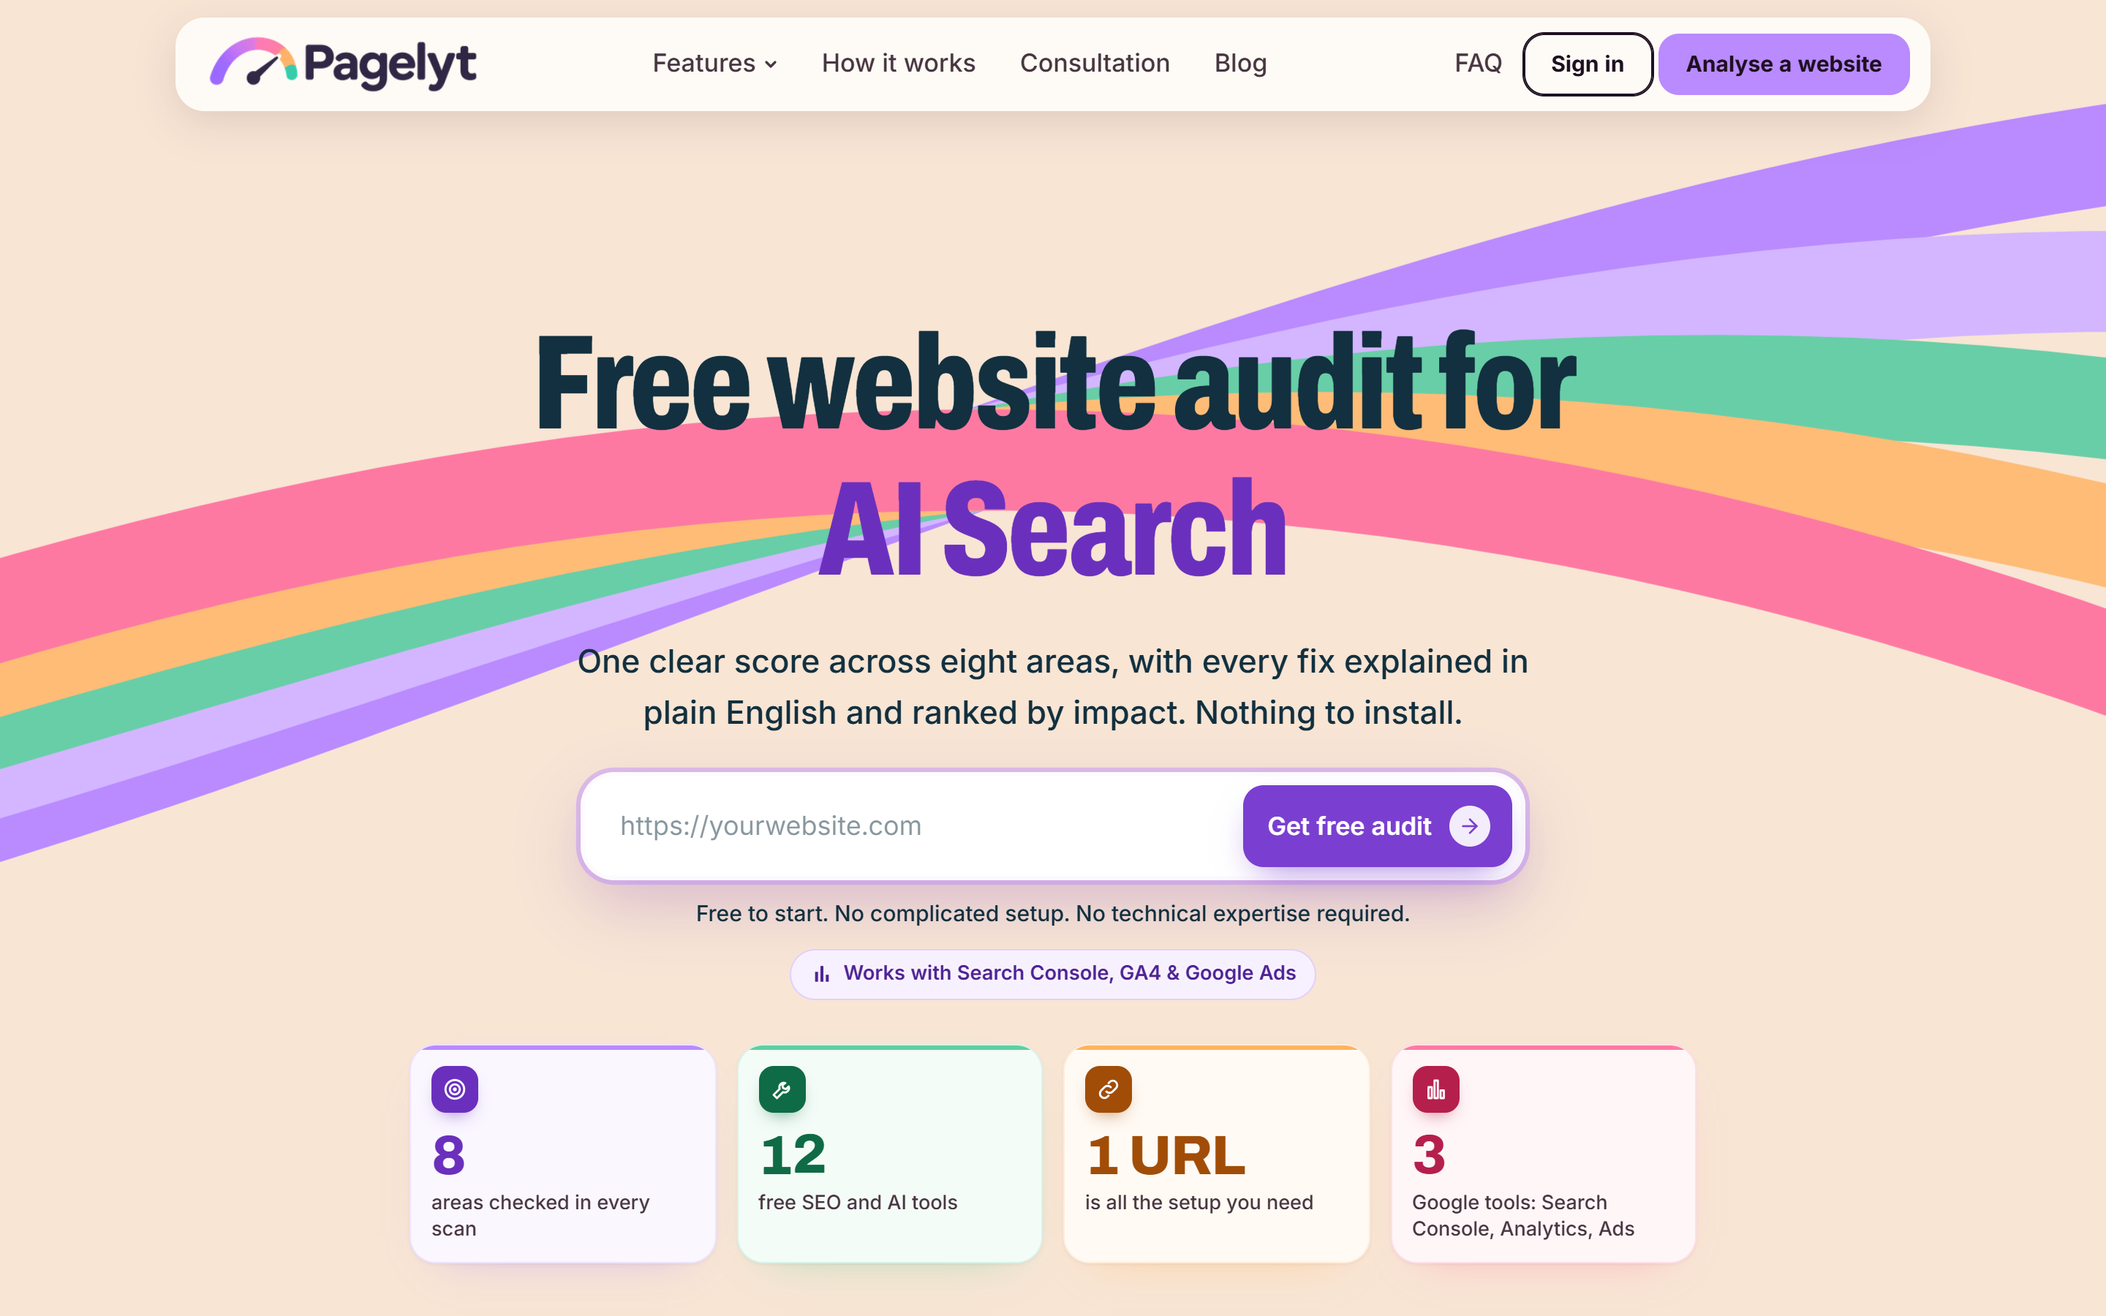
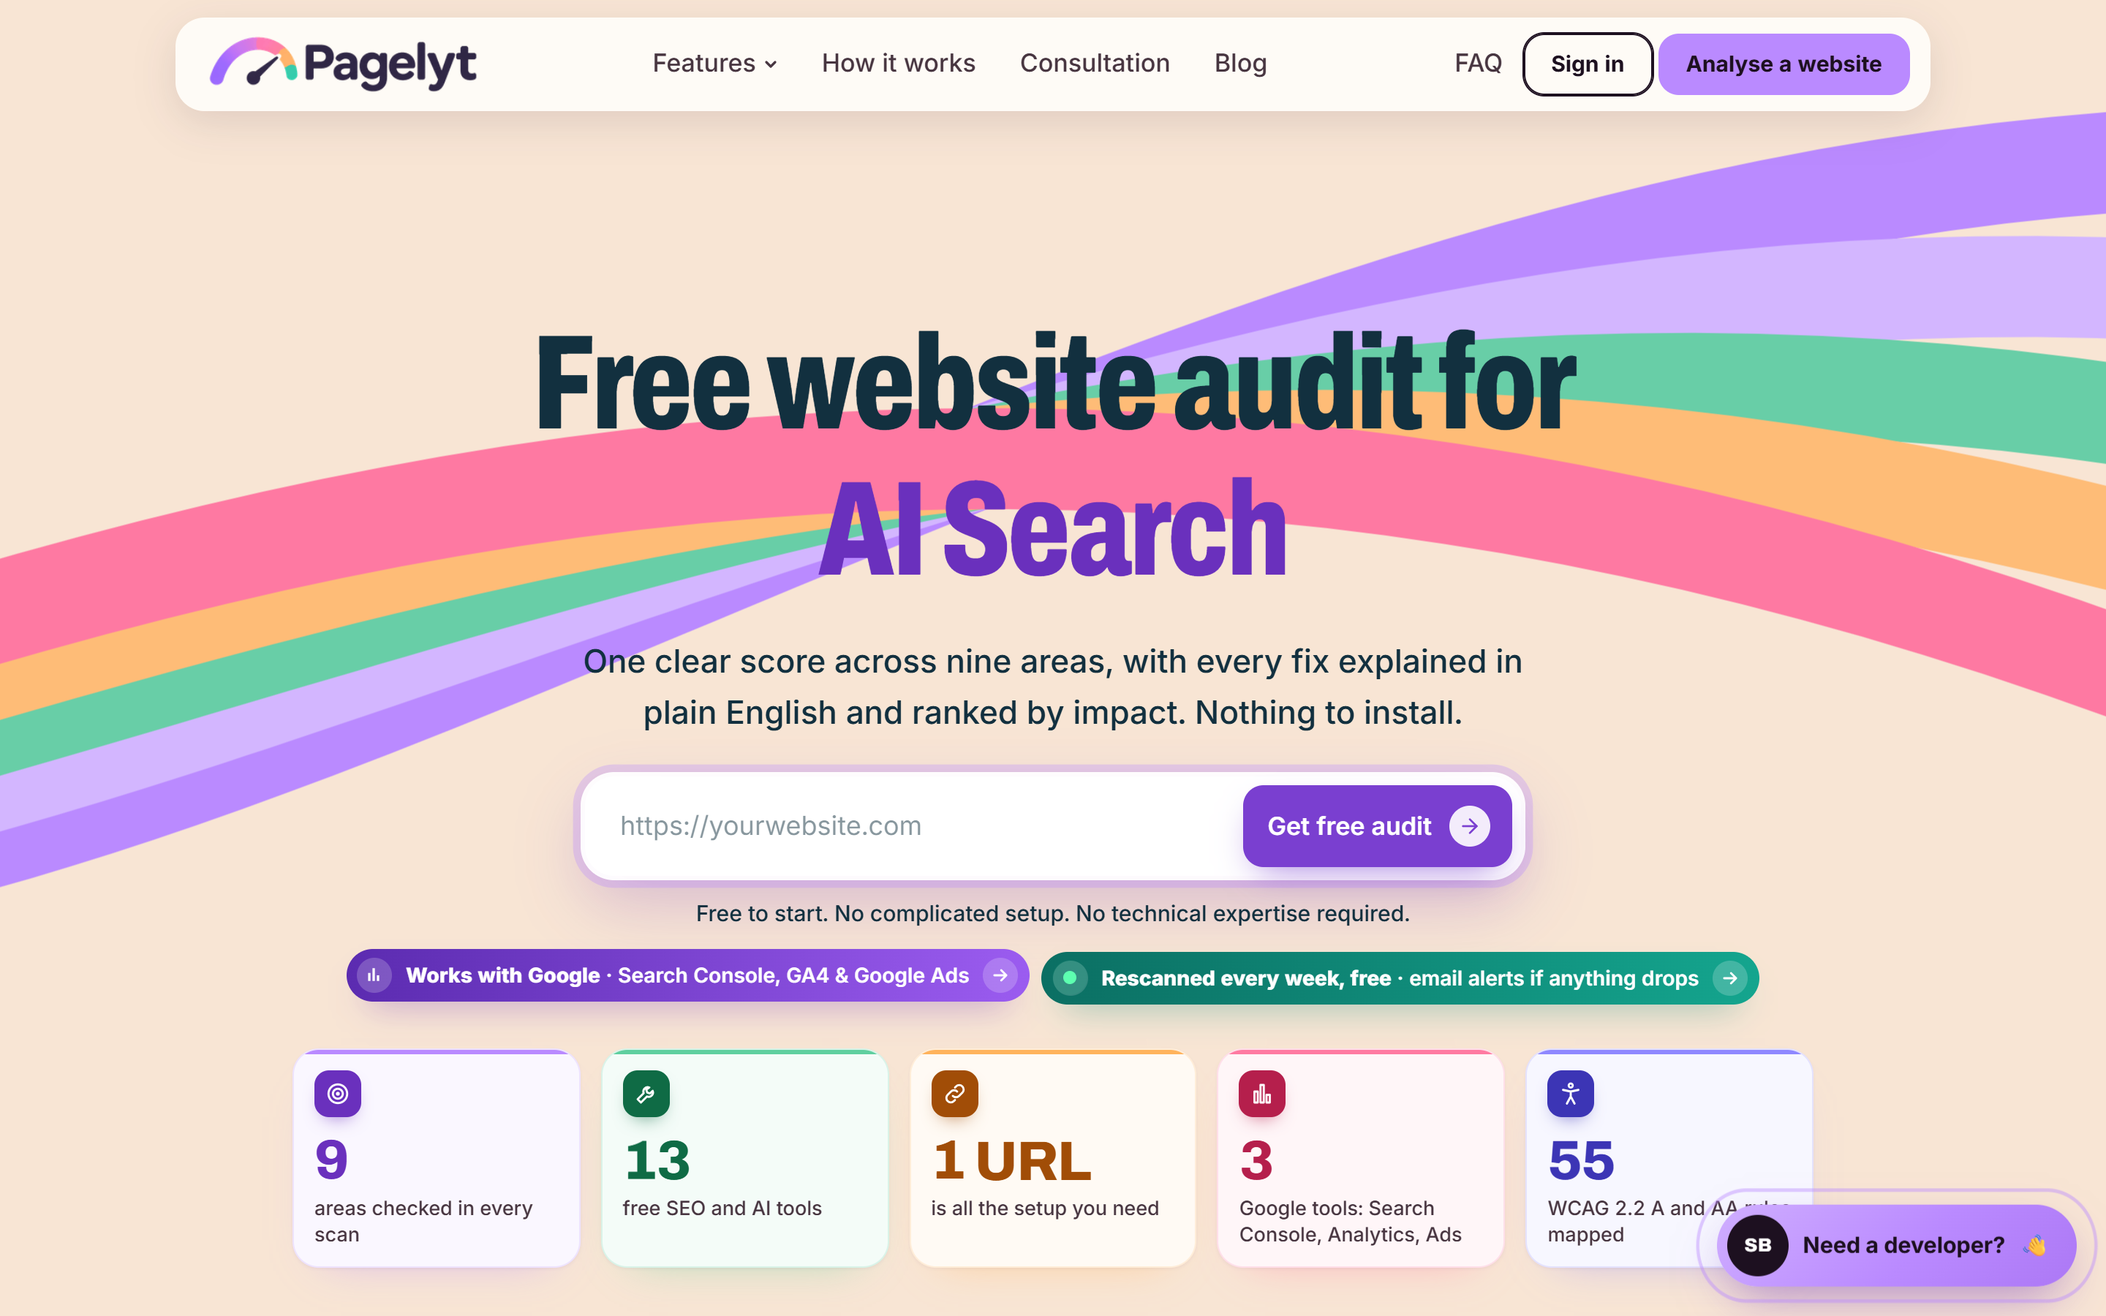
Memory bloating issue fix

diff --git a/web/lib/scan/crawl.ts b/web/lib/scan/crawl.ts
@@ -35,8 +35,17 @@ export function sitemapLocs(xml: string, host: string): string[] {
   return out;
 }
 
+/** Empties every inline script except JSON-LD. Framework payloads (e.g. Next.js RSC data) can be half of a page's
+    HTML and nothing in the scan reads them; parsing them pushed the crawl past the Worker's memory limit. */
+export function lighten(html: string): string {
+  return html.replace(/(<script\b(?![^>]*ld\+json)[^>]*>)[\s\S]*?(<\/script\s*>)/gi, "$1$2");
+}
+
 export function internalLinks(html: string, base: string, host: string): string[] {
-  const $ = cheerio.load(html);
+  return linksIn(cheerio.load(lighten(html)), base, host);
+}
+
+function linksIn($: cheerio.CheerioAPI, base: string, host: string): string[] {
   const seen = new Set<string>();
   $("a[href]").each((_, el) => {
     const href = ($(el).attr("href") || "").trim();
@@ -72,7 +81,9 @@ export function crawlQueue(home: string, host: string, sitemap: string[], homeLi
 const words = (s: string) => (s.trim() ? s.trim().split(/\s+/).length : 0);
 
 export function inspect(url: string, status: number, html: string, host: string): { page: CrawlPage; links: string[]; images: string[] } {
-  const $ = cheerio.load(html.slice(0, 400_000));
+  // One parse per page: links come from the same tree (anchors are untouched by the strip below).
+  const $ = cheerio.load(lighten(html).slice(0, 600_000));
+  const links = status < 400 ? linksIn($, url, host) : [];
   const images = status < 400 ? imagesIn($, url) : []; // before <noscript> is stripped (lazy-load fallbacks live there)
   const robots = ($('meta[name="robots"]').attr("content") || "").toLowerCase();
   const ld = pageSchemaProblems($); // before scripts are stripped
@@ -100,7 +111,7 @@ export function inspect(url: string, status: number, html: string, host: string)
       ...(alts.length ? { alts: alts.slice(0, 20) } : {}),
       ...(ld.length ? { ld } : {}),
     },
-    links: status < 400 ? internalLinks(html, url, host) : [],
+    links,
     images,
   };
 }

diff --git a/assets/peerlist/launch-images.html b/assets/peerlist/launch-images.html
@@ -94,7 +94,7 @@
     <h1>One scan.<br>Every issue, <em>ranked.</em></h1>
     <p class="lead">Paste a URL. Get one clear score and know exactly where to start.</p>
     <ul class="pts">
-      <li><i style="background:#ba8aff">8</i>areas scored in every scan</li>
+      <li><i style="background:#ba8aff">9</i>areas scored in every scan</li>
       <li><i style="background:#68cea7">✓</i>Ordered by importance, with points per fix</li>
       <li><i style="background:#febc77">⚡</i>Results in under a minute, nothing to install</li>
     </ul>
@@ -153,7 +153,7 @@
   <div class="text">
     <div class="brand"><svg><use href="#logo"/></svg><b>Pagelyt</b></div>
     <span class="kicker">Free tools</span>
-    <h1>12 free tools.<br><em>No card needed.</em></h1>
+    <h1>13 free tools.<br><em>No card needed.</em></h1>
     <p class="lead">Checkers and generators for search engines, AI assistants and security. Each one runs in seconds.</p>
     <ul class="pts">
       <li><i style="background:#ba8aff">✓</i>AI bot checker and llms.txt generator</li>

diff --git a/assets/medium/pagelyt-founder-story.md b/assets/medium/pagelyt-founder-story.md
@@ -1,0 +1,210 @@
+# Medium article: founder story (Sudharma)
+
+Posted from: **Sudharma's personal Medium account** (founder voice, first person).
+Images: `assets/medium/images/`, numbered in the order they appear.
+
+## Before you publish (Medium story settings)
+
+- **SEO title** (Story settings → SEO settings, max 60 chars):
+  `Free Website Audit Tool: Why I Built Pagelyt`
+- **SEO description** (max 156 chars):
+  `I built Pagelyt, a free website audit that ranks every SEO, speed, AI search and security issue by impact and explains each fix in plain English.`
+- **Tags** (Medium allows 5): `SEO`, `Website Audit`, `AI Search`, `Startup`, `Web Development`
+- **Story preview image:** `01-cover.png`
+- **Canonical link:** leave empty. This is an original post, not a copy of a pagelyt.dev blog post.
+- **Publication:** submit to a publication if accepted somewhere (e.g. a startup or web dev publication). It gets far more reach than a personal feed.
+- **Links:** every pagelyt.dev link already carries `utm_source=medium&utm_medium=article&utm_campaign=founder-story`.
+
+---
+
+## Title
+
+**I Got Tired of Website Audits That Hand You 200 Warnings. So I Built Pagelyt.**
+
+## Subtitle
+
+A free website audit that ranks every issue by impact, explains the fix in plain English, and checks whether ChatGPT can actually read your site.
+
+---
+
+![Pagelyt homepage: Find what's holding your site back. And how to fix it.](images/01-cover.png)
+*Pagelyt: a free website audit for SEO, speed, AI search and security.*
+
+The first time I ran a proper website audit on a site I cared about, I got 200 warnings back.
+
+Red, orange, yellow. Missing alt text. Render-blocking resources. A Content-Security-Policy I'd never heard of. A "DMARC policy not found" that sounded serious but came with no explanation. I spent an evening copying error messages into search engines, and by the end of it I still didn't know the one thing I wanted to know:
+
+**What should I fix first?**
+
+That question is why I built [Pagelyt](https://pagelyt.dev/?utm_source=medium&utm_medium=article&utm_campaign=founder-story).
+
+## The problem with most website audit tools
+
+I'm not knocking the tools. Lighthouse is brilliant for page speed. The big SEO suites are built for SEO professionals and they're very good at that job. Security scanners find real problems.
+
+But if you run a small business, freelance for clients, or build sites for a living, you end up with five tabs open and five different reports that don't talk to each other. Each one tells you what's wrong in its own corner. None of them tells you what matters most for *your* site, in words you can act on.
+
+And they all assume you already know what an HSTS header is.
+
+When I talked to business owners about their websites, I kept hearing the same three things:
+
+1. "I don't know if my website is actually any good."
+2. "I got a report, but I don't know where to start."
+3. "My developer says it's fine. Is it?"
+
+None of those is a data problem. They're a *reading* problem. The data exists. Nobody is reading it for you.
+
+## What I wanted instead
+
+I wrote down what I wanted from a website audit before I wrote any code:
+
+- **One URL in, one clear answer out.** Not a dashboard of charts. A score, and a sentence about what it means.
+- **Every issue ranked by impact.** If there are 23 things wrong, show me the one that matters most at the top, and tell me how many points it's worth.
+- **The fix in plain English.** Not "configure HSTS." Tell me what it is, why it matters, and what to paste where.
+- **Everything in one place.** Speed, SEO, security, accessibility, email setup, privacy, and the newest one: AI search.
+- **Free to start, nothing to install.**
+
+That list became Pagelyt.
+
+## How Pagelyt works
+
+You paste your website address. In under a minute, Pagelyt checks your site across nine areas:
+
+- **Website health:** is the site up, is SSL valid, are there broken pages?
+- **Performance:** Core Web Vitals and real page speed on mobile and desktop
+- **SEO:** titles, descriptions, headings, indexing, sitemaps and structured data
+- **GEO readiness:** can AI assistants like ChatGPT, Claude and Perplexity read and cite you?
+- **Security:** HTTPS, security headers, mixed content
+- **Accessibility:** WCAG checks, with a clear A and AA summary
+- **Domain & email:** SPF, DKIM and DMARC, so your emails don't land in spam
+- **Privacy & compliance:** cookies, trackers and privacy basics
+- **Code security:** risky patterns in the code your site sends to every visitor
+
+Then it rolls all of that into one score.
+
+![Pagelyt audit dashboard showing an overall score of 80 and a score card for each area](images/02-audit-score.png)
+*One scan, one score, and a card for each area. The weakest area is called out at the top.*
+
+The part I'm proudest of is the line at the top of the report. On the screenshot above it says: *fix the 1 important item first: +2 points. Weakest area: Security.*
+
+That's the whole idea in one sentence. You don't need to read 23 findings. You need to know where to start, and what you get for it.
+
+## Not just what's wrong. How to fix it.
+
+A list of problems is only half a report. The other half is the fix.
+
+Every finding in Pagelyt comes with a plain-English explanation: what it is, why it matters to your visitors or your Google ranking, and what to do about it. For many findings, Pagelyt goes one step further and gives you the code, already filled in for your site.
+
+![Pagelyt security headers generator with missing headers listed by priority and copy-paste code for Netlify](images/03-fix-with-code.png)
+*Missing security headers, ranked by priority, with copy-paste code for your host.*
+
+Missing security headers is a good example. Most audit tools tell you they're missing. Pagelyt lists which ones, ranks them, asks which host you use (Netlify, Vercel, Nginx, Apache), and hands you the exact file to paste. You can copy it yourself or send it to your developer. Then you rescan and watch the score go up.
+
+That loop, **scan, fix, rescan**, is what makes a website audit actually useful. A report you read once and forget doesn't change anything.
+
+## The thing most website audits miss: AI search
+
+Here's what pushed me from "side project" to "this needs to exist."
+
+More and more people don't Google things any more. They ask ChatGPT. They ask Perplexity. They see Google's AI Overview and never scroll down to the links. And AI search doesn't show ten blue links. It gives one answer and names a handful of sources.
+
+If an AI assistant can't read your site, you're not one of them.
+
+I started checking sites I knew, and the results surprised me. Plenty of perfectly good business websites were quietly blocking AI crawlers in `robots.txt`, usually by accident: a security plugin or a copied template that blocked GPTBot "just in case." Their owners had no idea.
+
+So GEO (generative engine optimisation) is built into every Pagelyt scan.
+
+![Pagelyt AI bot access checker showing 14 of 14 AI bots allowed, including GPTBot, ClaudeBot and PerplexityBot](images/04-ai-bot-checker.png)
+*The AI bot access checker tests 14 AI crawlers against your robots.txt and your server.*
+
+Pagelyt checks 14 AI bots, including GPTBot, OAI-SearchBot, ClaudeBot and PerplexityBot. It tests both your `robots.txt` rules and whether your server or CDN actually lets them in, which is a different thing and catches firewall problems that robots.txt checks miss. It also looks for an `llms.txt` file, a short guide that tells AI tools who you are and which pages matter, and helps you make one if you don't have it.
+
+If GEO is new to you, I wrote a plain-English guide: [What is GEO? Generative engine optimisation explained](https://pagelyt.dev/blog/what-is-geo-generative-engine-optimisation?utm_source=medium&utm_medium=article&utm_campaign=founder-story).
+
+## Connecting the audit to your real Google traffic
+
+An audit tells you what's wrong with your site. It doesn't tell you what's costing you visitors.
+
+So Pagelyt connects to Google Search Console, Google Analytics 4 and Google Ads. Once connected, you see your real numbers next to your audit: clicks, impressions, which pages people land on, and how they've changed over the last 7, 28 or 90 days.
+
+![Pagelyt Google overview with Search Console connected, showing 995 clicks and 105,430 impressions over 28 days](images/05-google-insights.png)
+*Your Google numbers next to your audit, so you can see which fixes touch the pages that bring in traffic.*
+
+This changes which fix comes first. A slow page that nobody visits can wait. A slow page that brings in half your Google traffic can't. If you haven't set these up yet, there are step-by-step guides for [Google Search Console](https://pagelyt.dev/blog/google-search-console-setup-guide?utm_source=medium&utm_medium=article&utm_campaign=founder-story) and [Google Analytics 4](https://pagelyt.dev/blog/google-analytics-4-setup-guide?utm_source=medium&utm_medium=article&utm_campaign=founder-story).
+
+## When you're stuck: Ask Pagelyt
+
+Even with plain-English fixes, people get stuck. "What does this mean for *my* site?" "Which of these should I do this week?"
+
+So there's an assistant built into the dashboard. Ask Pagelyt knows your whole report, every fix guide and every post on our blog. It only answers website questions: SEO, speed, accessibility, security and AI search. It won't write your marketing emails, and that's on purpose.
+
+![Ask Pagelyt assistant with suggested questions about the report, speed, SEO and AI search](images/06-ask-pagelyt.png)
+*Ask Pagelyt answers questions about your own report, like "What should I fix first on my site?"*
+
+## 13 free tools, no card needed
+
+Not every problem needs a full audit. Sometimes you just want to check one thing.
+
+![Pagelyt free tools: AI bot access checker, llms.txt generator, robots.txt tester, search preview, schema markup generator and security headers generator](images/07-free-tools.png)
+*A few of the free tools. Each one runs in seconds.*
+
+Pagelyt has 13 free tools, including:
+
+- [AI bot access checker](https://pagelyt.dev/tools/ai-bot-checker?utm_source=medium&utm_medium=article&utm_campaign=founder-story): can ChatGPT, Claude and Perplexity reach your site?
+- [llms.txt generator](https://pagelyt.dev/tools/llms-txt-generator?utm_source=medium&utm_medium=article&utm_campaign=founder-story): make one in a minute
+- robots.txt tester and generator
+- Schema markup generator and bulk schema checker
+- Security headers generator
+- XML sitemap generator, search preview, hreflang checker and more
+
+See them all at [pagelyt.dev/tools](https://pagelyt.dev/tools?utm_source=medium&utm_medium=article&utm_campaign=founder-story).
+
+## What I've learned building it
+
+A few things surprised me while building Pagelyt:
+
+**People don't want more data. They want a decision.** Every time I added a chart, nobody looked at it. Every time I made the "fix this first" line clearer, people used it.
+
+**Plain English is harder than code.** Writing "Missing HSTS header" takes one second. Writing a sentence a café owner understands, that is still technically correct, takes a lot longer. It's also the part people thank me for.
+
+**Most websites have the same five problems.** Missing meta descriptions, unoptimised images, no security headers, email without DMARC, and AI bots blocked by accident. If you fix just those, you're ahead of most sites in your market.
+
+**AI search is moving faster than anyone's website.** The sites that make themselves easy for AI assistants to read now will be the ones those assistants recommend later.
+
+## Who Pagelyt is for
+
+- **Small business owners** who want to know whether their website is actually working for them
+- **Freelancers and agencies** who audit client sites and want a clear report they can share
+- **Developers** who want a fast second opinion before launch
+- **Anyone** who has ever been handed a 200-line audit and wondered where to start
+
+## Try it on your own site
+
+Pagelyt is free to start, with nothing to install. Paste your URL at [pagelyt.dev](https://pagelyt.dev/?utm_source=medium&utm_medium=article&utm_campaign=founder-story) and you'll have your score, your weakest area and your first fix in under a minute.
+
+I read every message that comes in. If you run it on your site, I'd genuinely love to hear what came up as your top fix, and what you'd want Pagelyt to check next. Leave a comment below.
+
+*Sudharma, founder of Pagelyt*
+
+---
+
+## Image list (upload in this order)
+
+| # | File | Where it goes | Alt text |
+|---|------|---------------|----------|
+| 1 | `01-cover.png` | Top of the story, and the story preview image | Pagelyt homepage: Find what's holding your site back. And how to fix it. |
+| 2 | `02-audit-score.png` | "How Pagelyt works" | Pagelyt audit dashboard showing an overall score of 80 and a score card for each area |
+| 3 | `03-fix-with-code.png` | "Not just what's wrong" | Pagelyt security headers generator with missing headers listed by priority and copy-paste code for Netlify |
+| 4 | `04-ai-bot-checker.png` | "AI search" | Pagelyt AI bot access checker showing 14 of 14 AI bots allowed, including GPTBot, ClaudeBot and PerplexityBot |
+| 5 | `05-google-insights.png` | "Connecting the audit to your real Google traffic" | Pagelyt Google overview with Search Console connected, showing 995 clicks and 105,430 impressions over 28 days |
+| 6 | `06-ask-pagelyt.png` | "Ask Pagelyt" | Ask Pagelyt assistant with suggested questions about the report, speed, SEO and AI search |
+| 7 | `07-free-tools.png` | "13 free tools" | Pagelyt free tools: AI bot access checker, llms.txt generator, robots.txt tester, search preview, schema markup generator and security headers generator |
+
+Medium sets alt text from the image's "Alt text" option (click the image, then the alt text icon). Captions are typed directly under the image.
+
+## Posting tips
+
+- Publish Tue–Thu morning. Share it from LinkedIn and the Pagelyt company page the same day with one line of your own.
+- Add the Medium link to the Pagelyt Peerlist profile and LinkedIn featured section.
+- Reply to every comment in the first 48 hours. Medium surfaces stories with early engagement.
+- After a week, check the Medium stats "referrers" and the GA4 `utm_source=medium` traffic.
